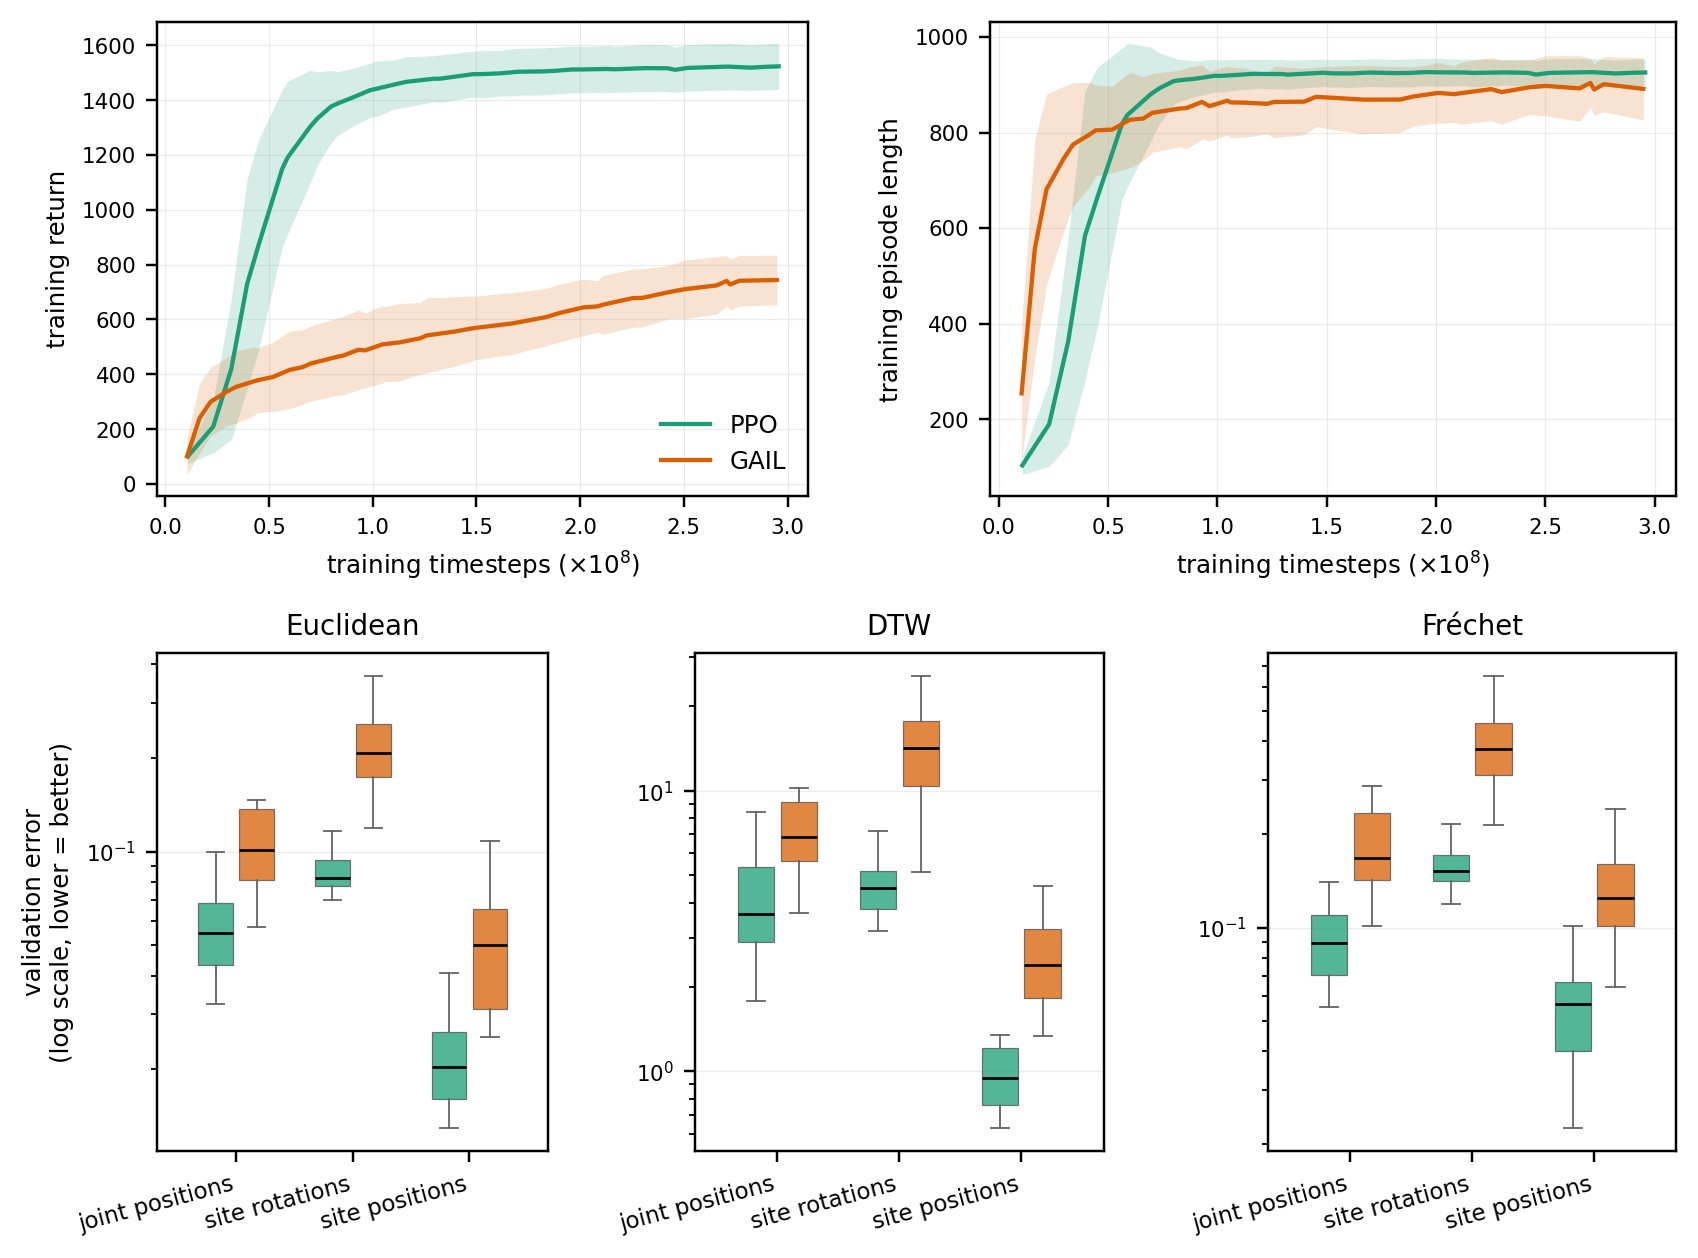
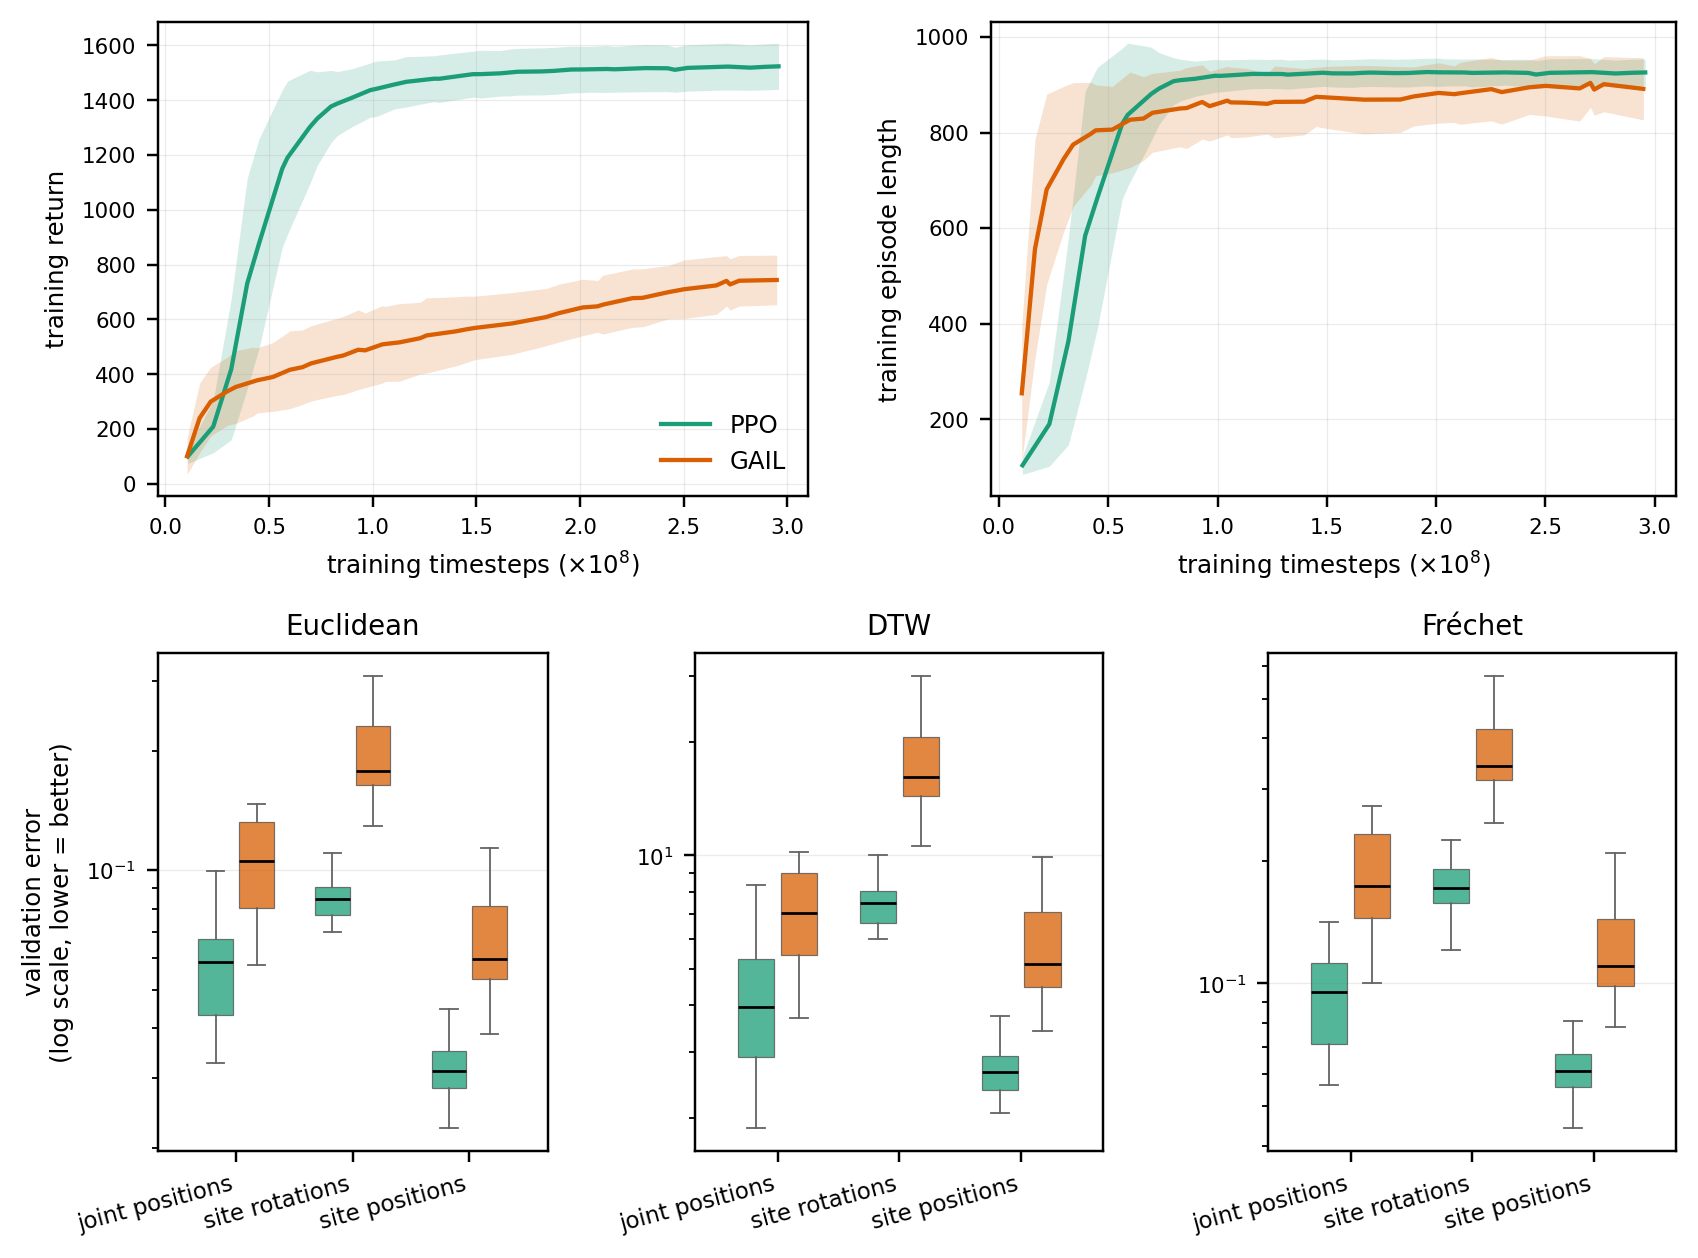
docs(benchmark): site tracking errors computed with the corrected metrics
The site quantities of the benchmark page were logged with the MetricsHandler
that applied the site selection to the coordinate axis. All 715 PPO and 60 GAIL
final policies were evaluated again with the corrected handler (five validation
rollouts each, averaged). Updates the site_rpos columns of the table of
Experiment 1 and the figure of Experiment 3, and notes the change on the
benchmark and evaluation pages and in the changelog.

diff --git a/docs/training/benchmark.md b/docs/training/benchmark.md
@@ -44,22 +44,32 @@ relative to the root (`site_rpos`, in meters), as mean ± standard deviation ove
 
 | Embodiment | Return | Episode length | Euclidean | DTW | Fréchet |
 |---|---:|---:|---:|---:|---:|
-| UnitreeH1 | 1535 ± 81 | 925 ± 27 | 0.023 ± 0.010 | 1.13 ± 0.54 | 0.058 ± 0.030 |
-| UnitreeH1v2 | 1086 ± 128 | 890 ± 41 | 0.060 ± 0.023 | 3.15 ± 1.31 | 0.137 ± 0.050 |
-| UnitreeG1 | 1378 ± 77 | 926 ± 27 | 0.017 ± 0.006 | 0.85 ± 0.25 | 0.046 ± 0.016 |
-| Atlas | 725 ± 89 | 923 ± 28 | 0.090 ± 0.038 | 7.52 ± 3.00 | 0.173 ± 0.061 |
-| Talos | 1222 ± 91 | 913 ± 32 | 0.049 ± 0.022 | 4.26 ± 1.86 | 0.104 ± 0.040 |
-| Apollo | 1068 ± 96 | 961 ± 13 | 0.086 ± 0.040 | 6.94 ± 3.04 | 0.131 ± 0.065 |
-| BoosterT1 | 1184 ± 83 | 913 ± 31 | 0.058 ± 0.020 | 4.75 ± 1.64 | 0.118 ± 0.044 |
-| FourierGR1T2 | 1647 ± 102 | 926 ± 27 | 0.024 ± 0.011 | 1.19 ± 0.52 | 0.057 ± 0.027 |
-| ToddlerBot | 1587 ± 139 | 925 ± 26 | 0.016 ± 0.007 | 1.28 ± 0.60 | 0.033 ± 0.020 |
-| SkeletonTorque | 1096 ± 66 | 921 ± 28 | 0.037 ± 0.016 | 2.15 ± 0.62 | 0.096 ± 0.035 |
-| SkeletonMuscle | 838 ± 403 | 671 ± 276 | 0.102 ± 0.067 | 6.92 ± 4.31 | 0.285 ± 0.221 |
+| UnitreeH1 | 1535 ± 81 | 925 ± 27 | 0.033 ± 0.007 | 2.84 ± 0.57 | 0.064 ± 0.013 |
+| UnitreeH1v2 | 1086 ± 128 | 890 ± 41 | 0.084 ± 0.025 | 7.38 ± 2.16 | 0.162 ± 0.071 |
+| UnitreeG1 | 1378 ± 77 | 926 ± 27 | 0.027 ± 0.004 | 2.37 ± 0.31 | 0.053 ± 0.007 |
+| Atlas | 725 ± 89 | 923 ± 28 | 0.092 ± 0.021 | 8.06 ± 1.95 | 0.159 ± 0.035 |
+| Talos | 1222 ± 91 | 913 ± 32 | 0.057 ± 0.017 | 4.98 ± 1.64 | 0.104 ± 0.034 |
+| Apollo | 1068 ± 96 | 961 ± 13 | 0.078 ± 0.025 | 6.75 ± 2.22 | 0.111 ± 0.043 |
+| BoosterT1 | 1184 ± 83 | 913 ± 31 | 0.061 ± 0.014 | 5.59 ± 1.47 | 0.111 ± 0.031 |
+| FourierGR1T2 | 1647 ± 102 | 926 ± 27 | 0.033 ± 0.009 | 2.84 ± 0.74 | 0.061 ± 0.017 |
+| ToddlerBot | 1587 ± 139 | 925 ± 26 | 0.016 ± 0.006 | 1.38 ± 0.51 | 0.029 ± 0.012 |
+| SkeletonTorque | 1096 ± 66 | 921 ± 28 | 0.047 ± 0.017 | 4.26 ± 1.59 | 0.127 ± 0.082 |
+| SkeletonMuscle | 838 ± 403 | 671 ± 276 | 0.104 ± 0.060 | 9.65 ± 5.76 | 0.242 ± 0.153 |
+
+```{note}
+The tracking errors on the site quantities, in this table and in the figure of Experiment 3, were computed
+after training with the corrected {class}`~loco_mujoco.utils.metrics.MetricsHandler`: every final policy was
+rolled out again, five validation rollouts each, and the results were averaged. Versions of LocoMuJoCo up to
+1.2.0 evaluated the site quantities on the wrong axis (see the [changelog](../development/changelog.md)), so
+values of `site_rpos`, `site_rrotvec` and `site_rvel` logged with those versions are not comparable with the
+ones here. The return, the episode length and the errors on the joint positions are not affected. A few
+policies whose checkpoints were no longer available were trained again with the same configuration and seed.
+```
 
 What the results show:
 
-- The Unitree G1 and H1, the Fourier GR1T2 and ToddlerBot track most closely. Atlas, Apollo and the
-  muscle-driven SkeletonMuscle have the largest errors.
+- The Unitree G1 and H1, the Fourier GR1T2 and ToddlerBot track most closely. Atlas, the Unitree H1-2, Apollo
+  and the muscle-driven SkeletonMuscle have the largest errors.
 - SkeletonMuscle is the hardest embodiment. It is the only one whose episodes regularly end early, and its
   results vary most between clips and seeds.
 - The three measures rank the embodiments in nearly the same order, on the joint positions as on the site
@@ -105,7 +115,7 @@ algorithm over 12 clips × 5 seeds (log scale).
 ```
 
 PPO reaches about twice the return of GAIL and a lower tracking error under every measure and on every
-quantity. Training a discriminator on high-dimensional whole-body motion without a per-step tracking signal is
+quantity: the median error of PPO is about 1.8 to 2.2 times lower. Training a discriminator on high-dimensional whole-body motion without a per-step tracking signal is
 hard. LocoMuJoCo includes GAIL mainly as a baseline and as a starting point for methods such as AMP, which
 combine a learned style reward with a task reward.
 

diff --git a/CHANGELOG.md b/CHANGELOG.md
@@ -102,7 +102,9 @@ Every version below is a git tag and a
   and `rel_site_names` did not restrict `BodyPosition`, `BodyOrientation`, `BodyVelocity`, `SitePosition` and
   `SiteOrientation` to the named elements. The measures are now evaluated on all components of the selected
   bodies and sites. **The values of these nine quantities change**; values logged with earlier versions are not
-  comparable with new ones. The joint quantities, the return and the episode length are unchanged.
+  comparable with new ones. The joint quantities, the return and the episode length are unchanged. The site
+  errors on the benchmark page of the documentation (table of Experiment 1, figure of Experiment 3) were
+  computed again with the corrected implementation.
 - `validation.rel_joint_names` raised an `IndexError` in `MetricsHandler`, because the joint names were used as
   joint ids. Selecting joints without a free joint, with `rel_joint_names` or by listing the free joint in
   `joints_to_ignore`, failed in `JointPosition` with "cannot reshape array".

diff --git a/docs/training/evaluation.md b/docs/training/evaluation.md
@@ -98,6 +98,13 @@ Each measure is computed separately for every element (joint, body or site) and 
 on the time series of that element, and then averaged. The result is one scalar per measure and quantity.
 Quantities with different units are not comparable with each other; compare the same quantity across runs.
 
+```{note}
+Versions up to 1.2.0 applied the selection of bodies and sites to the wrong axis of the body and site
+quantities, so their values are not comparable with those of later versions. The joint quantities, the return
+and the episode length are the same in all versions. The [benchmark results](benchmark.md) use the corrected
+implementation.
+```
+
 ### Configuration
 
 The validation loop is configured in the `validation` block of `experiment`:
